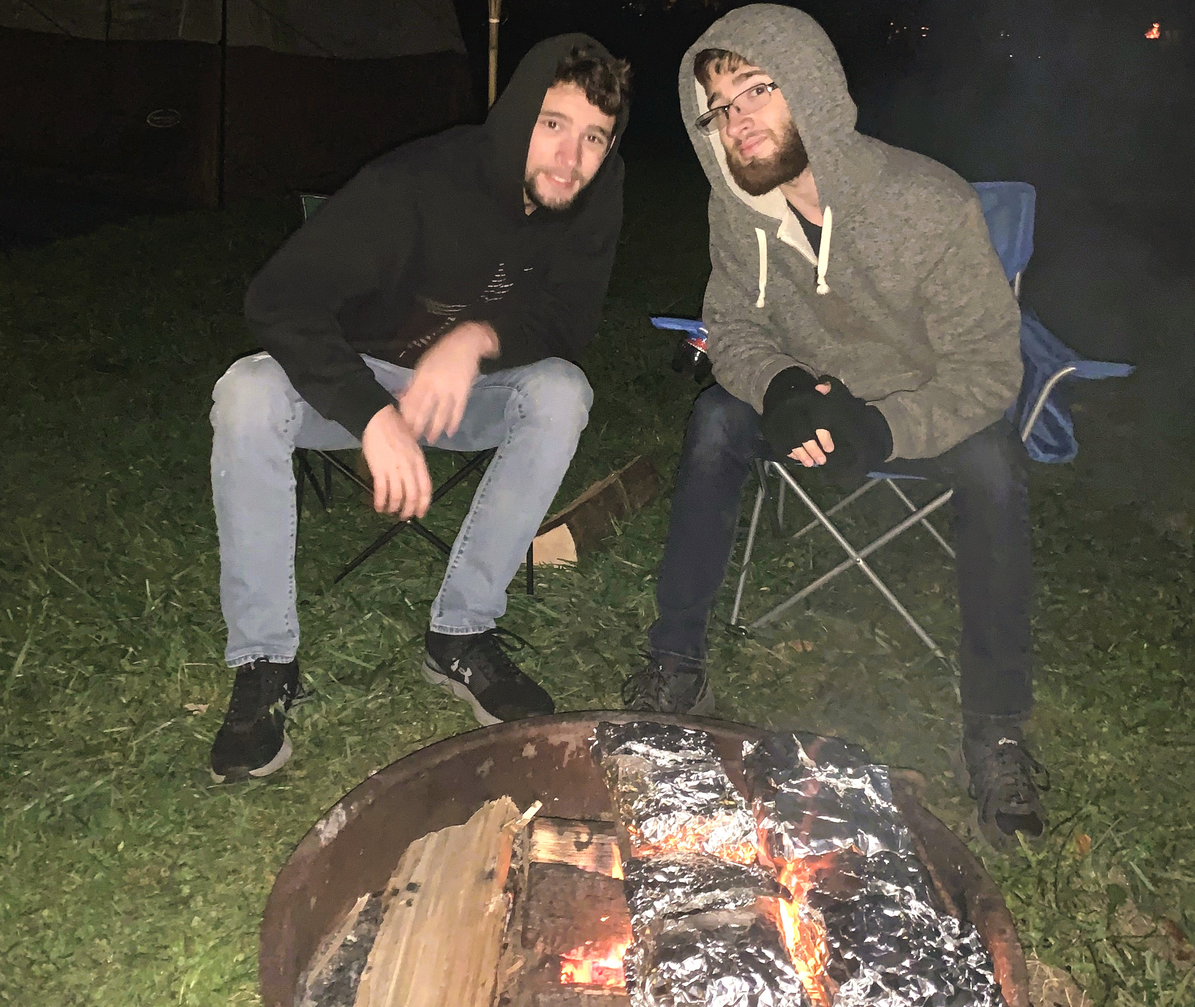
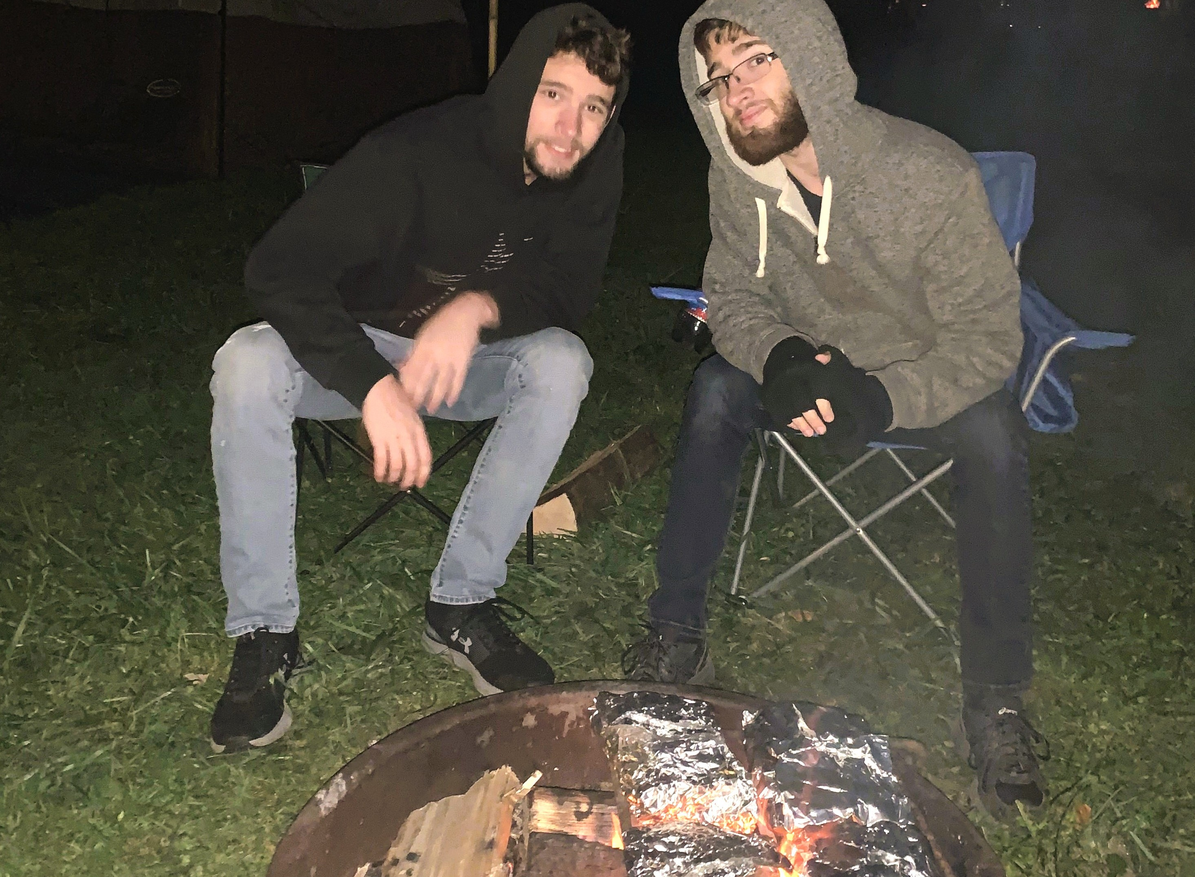
Edit photos to fit dimensions

diff --git a/itis3135/hobby/index.html b/itis3135/hobby/index.html
@@ -430,7 +430,7 @@
             </article>
             <figure>
                 <img 
-                    src="images/placeholder.png" 
+                    src="images/newplaceholder.jpg" 
                     alt="Placeholder Image" 
                 />
                 <figcaption>Consistent visual style across images</figcaption>
